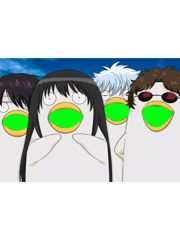
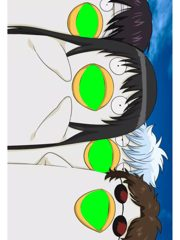
v4.30 #3 임시 3: 얼굴 두 자리(뒤집기·45도), #1 되돌림
Claude-Session: https://claude.ai/code/session_01LMf8UAwMNLbidmC1Q5Dsz8

diff --git a/index.html b/index.html
@@ -417,7 +417,7 @@
 
 <script>
 /* ================= 설정 ================= */
-const APP_VERSION = 'v4.29';
+const APP_VERSION = 'v4.30';
 const CONFIG = {
   // 시작 화면 문구 (줄바꿈은 \n)
   START_TITLE: '이유는 분명 있었고\n지금도 납득은 가지만\n어쩌구 사진관',
@@ -595,7 +595,7 @@ function compose(ctx, W, H) {
   if (cur.bg) {
     // 배경 → 사람만 오려서 위에 (마스크가 아직 없으면 배경만)
     ctx.drawImage(cur.bg, 0, 0, W, H);
-    if (cur.faceSpot) { drawFaceSpot(ctx, W, H, sw, sh); }
+    if (cur.faceSpot) { for (const sp of [].concat(cur.faceSpot)) drawFaceSpot(ctx, W, H, sw, sh, sp); }
     else if (cur.slot) { if (sw && sh && maskReady) drawSlot(ctx, W, H, sw, sh); }
     else if (cur.copies) { if (sw && sh && maskReady) drawCopies(ctx, W, H, sw, sh); }
     else if (cur.bubbles) { drawBubbles(ctx, W, H, sw, sh); }
@@ -926,8 +926,9 @@ function drawSlot(ctx, W, H, sw, sh) {
 // faceSpot = { x, y: 타원 중심, w, h: 타원 크기 (배경 좌표), glow: 뒤에 빛 번짐 }
 const faceCanvas = document.createElement('canvas'), fctx = faceCanvas.getContext('2d');
 const HEAD = { down: 0.1, rx: 1.45, ry: 1.95 };  // 두 눈 가운데 기준 머리 타원 (d = 두 눈 사이 거리 배수)
-function drawFaceSpot(ctx, W, H, sw, sh) {
-  const sp = cur.faceSpot, s = W / cur.W;
+// v4.30: faceSpot을 배열로 주면 자리마다 그림. rotate(도) = 얼굴을 돌려서 넣음(180 = 뒤집기), alpha = 얼굴 투명도
+function drawFaceSpot(ctx, W, H, sw, sh, sp) {
+  const s = W / cur.W;
   const cx = sp.x * s, cy = sp.y * s, tw = Math.round(sp.w * s), th = Math.round(sp.h * s);
   if (sp.glow !== false) {  // 해처럼 빛 번짐
     ctx.save();
@@ -980,9 +981,11 @@ function drawFaceSpot(ctx, W, H, sw, sh) {
   g2.addColorStop(0.72, 'rgba(0,0,0,1)'); g2.addColorStop(1, 'rgba(0,0,0,0)');
   fctx.fillStyle = g2; fctx.beginPath(); fctx.arc(0, 0, tw / 2, 0, Math.PI * 2); fctx.fill();
   fctx.restore();
-  ctx.globalAlpha = 0.8;  // 얼굴은 살짝 비치게 (뒤 햇빛이 보임)
-  ctx.drawImage(faceCanvas, cx - tw / 2, cy - th / 2);
-  ctx.globalAlpha = 1;
+  ctx.save();
+  ctx.globalAlpha = sp.alpha != null ? sp.alpha : (sp.glow !== false ? 0.8 : 1);  // 해 얼굴은 살짝 비치게
+  ctx.translate(cx, cy); if (sp.rotate) ctx.rotate(sp.rotate * Math.PI / 180);
+  ctx.drawImage(faceCanvas, -tw / 2, -th / 2);
+  ctx.restore();
 }
 
 function fitLiveCanvas() {

diff --git a/CLAUDE.md b/CLAUDE.md
@@ -110,7 +110,7 @@ CHANGELOG.md             버전 기록 + 되돌리는 방법
   `slot.json` `{"rotate": -90, "box": [x,y,w,h]}`(선택) → 처리 스크립트가 `frames.json`에 `slot`, `slotRotate`, `slotBox`로 기록.
   코드: `updateMask()`가 `personBox`(사람 범위) 계산, `drawSlot()`이 잘라서 돌리고 box에 맞춰 넣은 뒤 slot으로 자름, `alphaBox()`. 예: `frames/사랑니/`
 - **얼굴 자리 프레임 (v4.9)**: 폴더에 `face.json` `{"x","y","w","h","glow"}`(배경 좌표, 타원 중심·크기)가 있으면 가장 큰 얼굴을 머리째 타원으로 잘라 그 자리에 띄움
-  (`frames.json`의 `faceSpot`). 코드: `drawFaceSpot()`, 머리 범위 `HEAD`(두 눈 가운데 기준 d 배수). 사람 오려내기(seg)는 안 돌림. 예: `frames/해 얼굴/`
+  (`frames.json`의 `faceSpot`). 코드: `drawFaceSpot()`, 머리 범위 `HEAD`(두 눈 가운데 기준 d 배수). 사람 오려내기(seg)는 안 돌림. 예: `frames/해 얼굴/`. v4.30: face.json을 배열로 주면 자리 여러 개, 자리마다 `rotate`(도, 180=뒤집기)·`glow:false`·`alpha`. 예: `frames/임시 3/`(컷 #3)
 - **여러 명 프레임 (v4.10)**: 폴더에 `people.json` `{"fit":"stretch","copies":[{"box":[x,y,w,h],"rotate":0|-90}]}`(fit: stretch = box에 늘려 채움, 없으면 비율 유지)가 있으면 오려낸 사람을 자리마다 그림(`frames.json`의 `copies`).
   코드: `cropPerson()`(사람 범위 잘라 마스크) → `drawPersonIn()`(돌려서 box에 contain, 거울) / `drawCopies()`. 비스듬한 획은 `{"center":[x,y],"len","thick","rotate"}`. 폴더의 `thumb.png` = 썸네일. 예: `frames/퇴근/`, `frames/퇴사/`, `frames/자퇴/`
 - **픽셀 필터 (v4.12)**: `people.json`에 `"pixel":{"cell","colors"}` → `pixelatePerson()`(줄이기 + 바이어 디더링 + 테두리) 결과를 `drawPersonIn(..., src)`로 네모 그대로 키움. 예: `frames/윈앰프/`
@@ -186,6 +186,7 @@ CHANGELOG.md             버전 기록 + 되돌리는 방법
 
 ## 프레임 점검 아티팩트 (Claude 점검표)
 - claude.ai 아티팩트 "302호 프레임 점검표" https://claude.ai/artifact/7cgRrbB4RLYyh9GADhJfoN — 사용자가 프레임별로 OK/수정/삭제, 문제 태그(구멍 작음·큼·위치·모양, 배율 조정), 배율 숫자(z), 메모, **구멍 그리기**(타원 shapes, 0~1 정규화 cx,cy,rx,ry, 3:4 기준) 입력
+- **반영할 땐 `s`가 fix/del이고 `done`이 아닌 것만** (사용자가 메모를 여러 번 고쳐서 예전 메모가 남아 있을 수 있음 — 태그·메모가 지난 반영과 같으면 확인)
 - 데이터: ArtifactData collection `review`, doc id = `k`+md5(cuts.json src)[:12], 필드 {no,name,src,s,m,z,issues,shapes,done}. 반영하면 `done: true`로 update
 - 썸네일 = 분홍(#FF2BD6)이 카메라 보이는 자리. 원본 `scratchpad/reviewart/`(세션 바뀌면 다시 만들어야 함): t/NNN.jpg 360×480 + frames.json(no,name,src,key,kind,area,holes,edge,z)
 - 목록이 바뀌면(삭제·추가) 썸네일·frames.json 다시 만들어 같은 URL로 재게시

diff --git a/CHANGELOG.md b/CHANGELOG.md
@@ -15,6 +15,10 @@ git checkout <버전의 커밋> -- index.html tools .github
 git commit -m "v3.0으로 되돌림" && git push origin HEAD:main
 ```
 
+## v4.30 — 얼굴 여러 자리
+- `faceSpot`을 배열로: 자리마다 가장 큰 얼굴을 넣고 `rotate`(도)로 돌림, `glow:false`면 빛 없이 그대로. #3 임시 3 = `frames/임시 3/`(face.json: 오른쪽 위 -45°, 왼쪽 아래 180° 뒤집기)
+- #1 임시 1 점검표 4차 반영 되돌림(누운 컷 그대로, 배율 기본)
+
 ## v4.29 — 현장 다듬기
 - 결과 화면 ⌂(처음으로)가 SAVE("다음") 버튼과 겹쳐서 누르면 바로 처음 화면으로 가던 것 → ⌂를 왼쪽 위로
 - 완료 문구 "전송되었어요!" [확인] → 처음 화면
